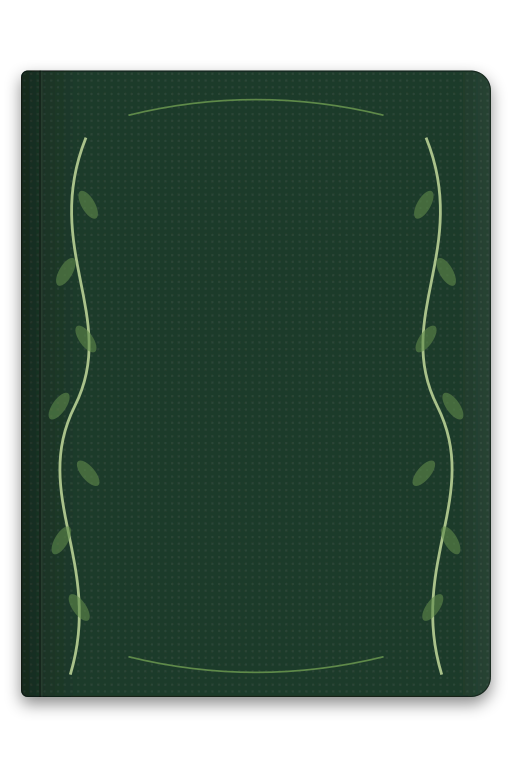
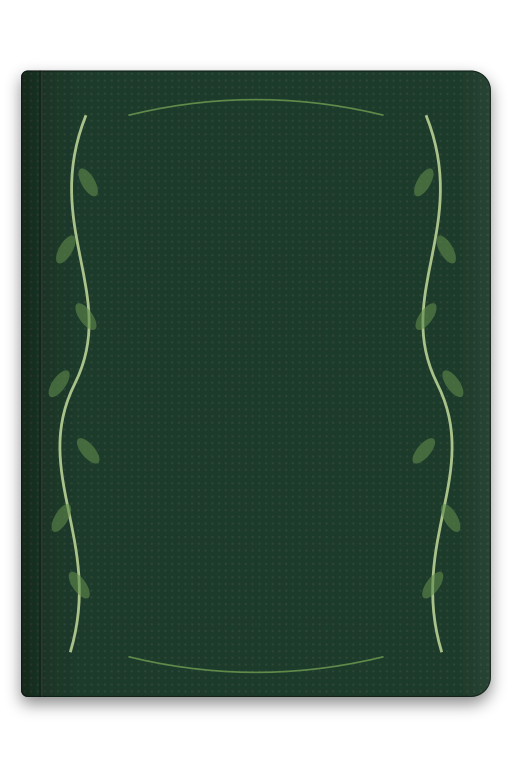
feat(ui): center cover vines and mark the selected tab with a ribbon
Shift the Gridania vines so they sit centered on the cover board, and replace the selected tab's top bar with a small edition-colored ribbon that hangs past the tab onto the book. The ribbon takes an extension amount for later entrance and exit motion.

Changed region(s): [[0.8125, 0.1562, 0.9062, 0.875], [0.0938, 0.1562, 0.1875, 0.875]]

diff --git a/src/Wanderveil/UI/Components/BookControl.cs b/src/Wanderveil/UI/Components/BookControl.cs
@@ -1,3 +1,4 @@
+using System;
 using System.Numerics;
 using Dalamud.Bindings.ImGui;
 using Wanderveil.UI.Primitives;
@@ -38,6 +39,11 @@ internal static class BookControl
             var width = bounds.Size.X - 4 * context.Scale;
             var measured = UiTypography.Measure(label, TextRole.Caption, context, width, false);
             var origin = bounds.Position + (bounds.Size - measured) / 2;
+            if (style == BookControlStyle.Tab && selected)
+            {
+                var ribbonLeft = RibbonBounds(bounds, context).Position.X - 3 * context.Scale;
+                if (origin.X + measured.X > ribbonLeft) origin.X = MathF.Max(bounds.Position.X + 2 * context.Scale, (bounds.Position.X + ribbonLeft - measured.X) / 2);
+            }
             list.PushClipRect(bounds.Position, bounds.Max, true);
             UiTypography.Draw(list, origin, label, TextRole.Caption, context, width, ink, false);
             list.PopClipRect();
@@ -88,7 +94,53 @@ internal static class BookControl
         list.AddRectFilled(top + new Vector2(1, 2) * context.Scale, foot + new Vector2(1, 0) * context.Scale, ImGui.GetColorU32(UiTheme.Shadow), radius, ImDrawFlags.RoundCornersTop);
         list.AddRectFilled(top, foot, ImGui.GetColorU32(fill), radius, ImDrawFlags.RoundCornersTop);
         list.AddRect(top, foot, ImGui.GetColorU32(UiTheme.Ink with { W = 0.22f }), radius, ImDrawFlags.RoundCornersTop, context.Scale);
-        if (selected)
-            list.AddRectFilled(top + new Vector2(radius, 0), new Vector2(bounds.Max.X - radius, top.Y + 3 * context.Scale), ImGui.GetColorU32(UiTheme.Edition));
+    }
+
+    // The selected tab's ribbon: full length, before any extension is applied.
+    internal static UiRect RibbonBounds(UiRect tab, UiContext context)
+    {
+        var width = MathF.Round(MathF.Max(7 * context.Scale, tab.Size.Y * 0.36f));
+        var right = tab.Max.X - 12 * context.Scale;
+        return new UiRect(new Vector2(right - width, tab.Position.Y + context.Scale), new Vector2(width, tab.Size.Y * 1.85f));
+    }
+
+    // A small edition-colored ribbon hanging from the selected tab past its foot, over the book's edge.
+    // Drawn after the book surface so it overlaps it. extension (0-1) is how far it has unrolled, for later
+    // entrance/exit motion; 0 draws nothing.
+    internal static void Ribbon(UiRect tab, UiContext context, float extension = 1f)
+    {
+        if (extension <= 0f) return;
+        var full = RibbonBounds(tab, context);
+        var length = full.Size.Y * MathF.Min(1f, extension);
+        var notch = MathF.Min(full.Size.X * 0.5f, length * 0.4f);
+        var list = ImGui.GetWindowDrawList();
+        var shadow = new Vector2(1.5f, 2f) * context.Scale;
+        Shape(full.Position + shadow, ImGui.GetColorU32(UiTheme.Shadow));
+        Shape(full.Position, ImGui.GetColorU32(UiTheme.Edition));
+        // A faint foil edge keeps the ribbon legible where it crosses the same-colored board.
+        var edge = ImGui.GetColorU32(UiTheme.Foil with { W = 0.45f });
+        var foot = full.Position.Y + length;
+        var cut = foot - notch;
+        var thin = MathF.Max(1, context.Scale);
+        list.AddLine(full.Position, new Vector2(full.Position.X, foot), edge, thin);
+        list.AddLine(new Vector2(full.Max.X, full.Position.Y), new Vector2(full.Max.X, foot), edge, thin);
+        list.AddLine(new Vector2(full.Position.X, foot), new Vector2(full.Position.X + full.Size.X / 2, cut), edge, thin);
+        list.AddLine(new Vector2(full.Position.X + full.Size.X / 2, cut), new Vector2(full.Max.X, foot), edge, thin);
+        // A foil thread down the middle and a darker fold on the left edge.
+        var middle = full.Position.X + full.Size.X / 2;
+        list.AddLine(new Vector2(middle, full.Position.Y + 2 * context.Scale), new Vector2(middle, full.Position.Y + length - notch - 2 * context.Scale), ImGui.GetColorU32(UiTheme.Foil with { W = 0.55f }), MathF.Max(1, context.Scale));
+        list.AddRectFilled(full.Position, new Vector2(full.Position.X + MathF.Max(1, context.Scale * 1.5f), full.Position.Y + length - notch), ImGui.GetColorU32(new Vector4(0, 0, 0, 0.22f)));
+
+        void Shape(Vector2 origin, uint color)
+        {
+            var left = origin.X;
+            var right = origin.X + full.Size.X;
+            var center = origin.X + full.Size.X / 2;
+            var body = origin.Y + length - notch;
+            list.AddRectFilled(origin, new Vector2(right, body), color);
+            // Swallow-tailed foot: two triangles leave a V notch.
+            list.AddTriangleFilled(new Vector2(left, body), new Vector2(center, body), new Vector2(left, origin.Y + length), color);
+            list.AddTriangleFilled(new Vector2(center, body), new Vector2(right, body), new Vector2(right, origin.Y + length), color);
+        }
     }
 }

diff --git a/tests/Wanderveil.UiChecks/BookShellChecks.cs b/tests/Wanderveil.UiChecks/BookShellChecks.cs
@@ -57,6 +57,8 @@ internal static class BookShellChecks
             check(size.X <= scenario.Size.X - 32.01f + 0.02f && size.Y <= scenario.Size.Y - 32 + 0.02f, "Book does not fit the viewport.");
             check(layout.LeftPage.Size.Y > 60 && layout.LeftPage.Max.Y < layout.Footer.Position.Y, "Page content collides with book controls.");
             check(layout.RightPage.Max.X <= root.Max.X, "Right content escapes the host.");
+            var ribbon = BookControl.RibbonBounds(layout.Bookmark(0), context);
+            check(ribbon.Max.Y > layout.Bookmark(0).Max.Y && ribbon.Max.Y < layout.LeftPage.Position.Y && ribbon.Max.X <= layout.Bookmark(0).Max.X, "Selected-tab ribbon does not hang just past its tab without covering page content.");
             check(ImGui.GetStyle().WindowPadding == style, "Book host style leaks into other windows.");
             if (artifacts != null) SoftwarePreview.Save(Path.Combine(artifacts, "passport-shell-" + scenario.Name + ".png"), host);
 

diff --git a/src/Wanderveil/UI/BookShell.cs b/src/Wanderveil/UI/BookShell.cs
@@ -55,6 +55,7 @@ internal sealed class BookShell(IBookAssets assets, PassportPreview profile, IRe
         }
         focusSection = false;
         BookSurface.Draw(layout.Book, layout.IsSpread ? BookFace.Spread : Section == BookSection.Passport && VisiblePage % 2 == 1 ? BookFace.Right : BookFace.Left, assets, context);
+        BookControl.Ribbon(layout.Bookmark((int)next), context);
 
         // Page contents scale with the paper like printed matter: a smaller book shows smaller text,
         // spacing, and artwork rather than scrolling. Enlarged host text still enlarges it (and may scroll).

diff --git a/docs/passport-runtime.md b/docs/passport-runtime.md
@@ -24,7 +24,7 @@ Type also follows the design. Cinzel Bold is used for cover lettering. Cormorant
 
 ## Controls on the book
 
-There are no buttons around the book anymore. The sections (Passport, Discover, Echoes, Studio) are paper index tabs tucked behind the pages. Settings, smaller, larger, and close (`- + x`) are printed in the paper's lower margin, with page numbers (folios) between them. On the closed cover they are foil-stamped beneath the lower arc. **x** and the host's Escape handling dismiss immediately. Sliding, cover opening/closing motion, and page-turn animations remain separate milestones; turns are immediate.
+There are no buttons around the book anymore. The sections (Passport, Discover, Echoes, Studio) are paper index tabs tucked behind the pages. The selected tab carries a small edition-colored ribbon at its right end that hangs past the tab onto the book; `BookControl.Ribbon` takes an extension amount (0-1) so its entrance and exit can be animated later. Settings, smaller, larger, and close (`- + x`) are printed in the paper's lower margin, with page numbers (folios) between them. On the closed cover they are foil-stamped beneath the lower arc. **x** and the host's Escape handling dismiss immediately. Sliding, cover opening/closing motion, and page-turn animations remain separate milestones; turns are immediate.
 
 The first page is a full-height nation pennant hung from the top edge of the paper down to the lower margin, with the crest and foil lettering drawn live over the generated banner plate.
 
